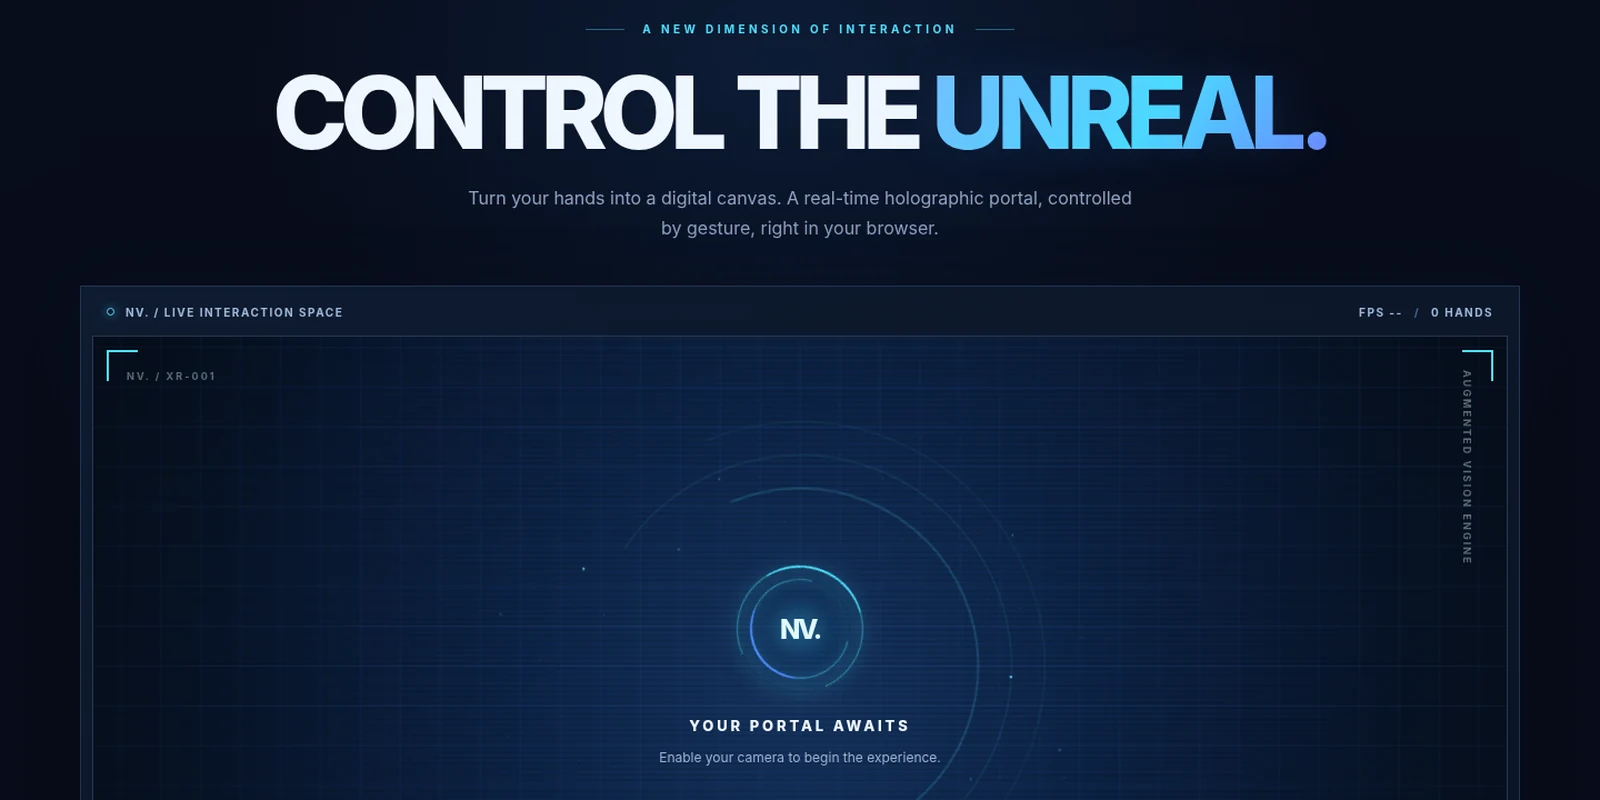
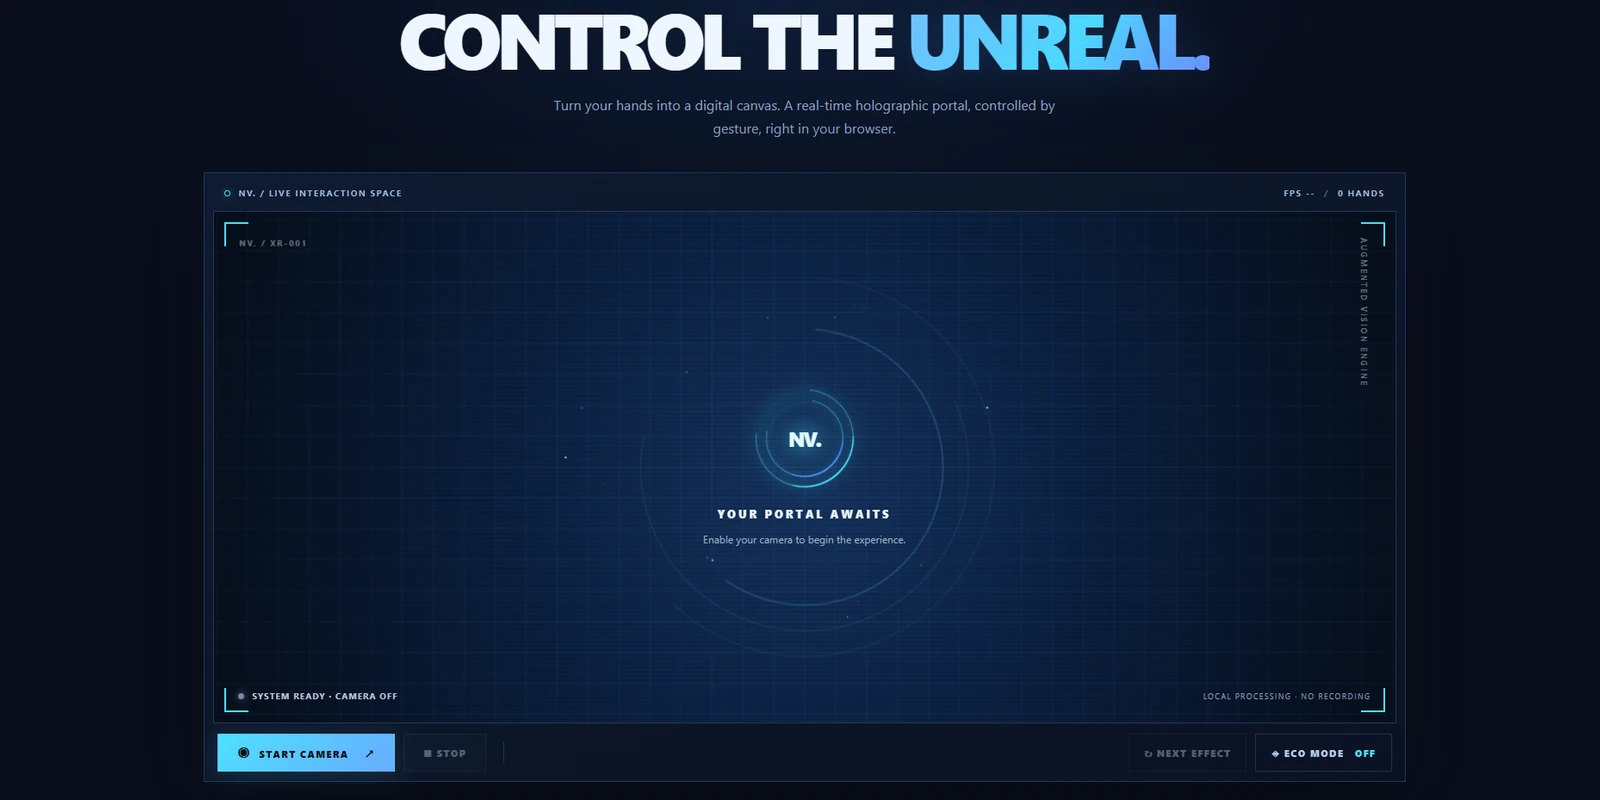
Add files via upload

diff --git a/index.html b/index.html
@@ -1614,7 +1614,7 @@
           <div class="nvar-tags" aria-label="Technologies used"><span>JavaScript</span><span>MediaPipe Web</span><span>Computer Vision</span><span>Canvas</span></div>
           <p class="nvar-privacy"><span aria-hidden="true">◇</span> Camera access is optional and user-controlled. Processing is designed to run in your browser; third-party model resources may be loaded on first use.</p>
           <div class="nvar-footer">
-            <div class="nvar-credit">CREATED BY <strong>Navod Ravindu Jayaweera</strong></div>
+            <div class="nvar-credit">DESIGNED &amp; DEVELOPED BY <strong>Navod Ravindu Jayaweera</strong></div>
             <div class="nvar-links">
               <a class="nvar-primary" href="https://nv-ar-portal.pages.dev/" target="_blank" rel="noopener noreferrer">Launch Live Experience <span aria-hidden="true">↗</span></a>
               <a class="nvar-secondary" href="https://github.com/navodravijay/nv-ar-portal" target="_blank" rel="noopener noreferrer">View GitHub Source <span aria-hidden="true">↗</span></a>
